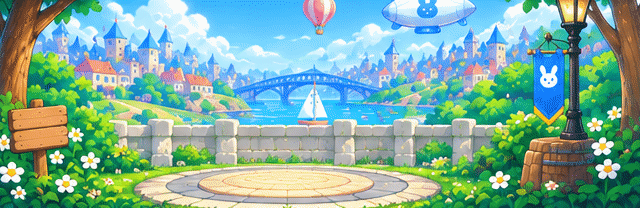
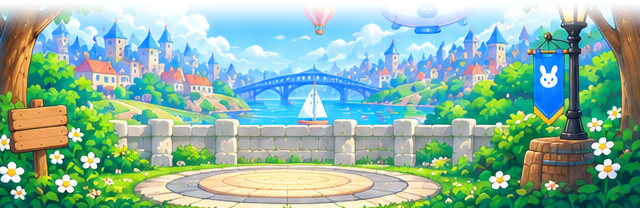
Trả lại phần trang trí tranh nền màn tạo nhân vật
`cover` phải phóng tranh lên 3,5 lần mới kín màn hình và cắt mất hơn 40%
bề ngang — đúng phần có cây, biển gỗ và cột đèn, tức là toàn bộ trang
trí. Đổi sang phủ theo BỀ NGANG nên giữ đủ tranh, phần trời phía trên
nối bằng dải màu lấy từ chính mép trên tranh.

Mép trên tranh cho tan dần lúc đóng gói để không lộ đường cắt ngang qua
dãy lâu đài; đổi lại tranh phải giữ kênh trong suốt nên nặng hơn (82 KB
→ 293 KB).

Thêm vòm lá cắt từ khung phụ kiện, đặt ở hai góc trên cho khỏi trống
trời và đóng khung như bản mẫu. Mép dưới và mép trái của mảnh lá bị xén
vào giữa tán (trên tấm gốc các phụ kiện xếp sát nhau) nên cũng cho tan
dần — cắt phẳng giữa tán lá thì lộ ngay.

Chỗ đứng của nhân vật tính lại theo cách phủ mới.

diff --git a/client/styles.css b/client/styles.css
@@ -1363,11 +1363,16 @@ button.primary.big-cta:active:not(:disabled) { transform: translateY(2px); box-s
    người. Tranh gốc rất ngang (640×208) nên neo ĐÁY và phủ theo bề ngang, phần
    trời phía trên nối bằng màu lấy từ chính mép trên của tranh. */
 #overlay.backdrop-character {
-  /* `cover` chứ không phải phủ theo bề ngang rồi nối trời: tranh rất ngang nên
-     nối trời để lộ một đường ngang rõ mồn một, mà hai gốc cây ở hai mép tranh
-     thì cụt ngang ngay chỗ nối. `cover` là tỉ lệ NHỎ NHẤT còn phủ kín, tức là
-     mờ ít nhất trong các cách phủ kín. */
-  background: #9bdcf7 bottom center / cover no-repeat url('/assets/ui/create.png');
+  /* Phủ theo BỀ NGANG, không dùng `cover`: `cover` phải phóng tranh lên 3,5 lần
+     mới kín màn hình và cắt mất hơn 40% bề ngang — đúng phần có cây, biển gỗ
+     và cột đèn, tức là toàn bộ trang trí. Phủ theo bề ngang thì giữ đủ tranh,
+     phần trời phía trên nối bằng dải màu lấy từ chính mép trên tranh, còn mép
+     trên tranh thì đã cho tan dần lúc đóng gói nên không lộ đường cắt. */
+  background:
+    url('/assets/ui/leaves.png') left top / clamp(200px, 24vw, 340px) auto no-repeat,
+    url('/assets/ui/leaves.png') right top / clamp(170px, 20vw, 290px) auto no-repeat,
+    url('/assets/ui/create.png') bottom center / 100% auto no-repeat,
+    linear-gradient(#8ccdf7 0%, #6fbdf3 55%, #6abff6 100%) no-repeat;
   justify-content: center;
   padding-top: 0;
 }

diff --git a/client/src/scenes/character.js b/client/src/scenes/character.js
@@ -22,17 +22,18 @@ const genderOf = (bodyType) => GENDERS.find((g) => g.id === bodyType) ?? GENDERS
 /**
  * Tâm vòng gạch trong tranh nền, đo trên chính file create.png.
  *
- * Tranh phủ kiểu `cover` nên vị trí vòng gạch trên màn hình đổi theo tỉ lệ
- * khung nhìn — đặt nhân vật bằng một con số CSS cố định thì màn khác tỉ lệ là
- * lệch ra khỏi vòng ngay. Tính lại theo đúng công thức của `cover`.
+ * Vị trí vòng gạch trên màn hình đổi theo bề ngang khung nhìn — đặt nhân vật
+ * bằng một con số CSS cố định thì màn cỡ khác là lệch ra khỏi vòng ngay. Tính
+ * theo đúng cách phủ của CSS: `100% auto` neo đáy, tức là tranh kéo vừa bề
+ * ngang, cao theo tỉ lệ, dính đáy.
  */
 const PLAZA = { w: 640, h: 208, x: 273, y: 186 };
 
 function plazaPointIn(box) {
-  const s = Math.max(box.width / PLAZA.w, box.height / PLAZA.h);
+  const s = box.width / PLAZA.w;
   return {
-    x: (box.width - PLAZA.w * s) / 2 + PLAZA.x * s,   // background-position: center
-    y: (box.height - PLAZA.h * s) + PLAZA.y * s,      // ... bottom
+    x: PLAZA.x * s,
+    y: box.height - PLAZA.h * s + PLAZA.y * s,
   };
 }
 
